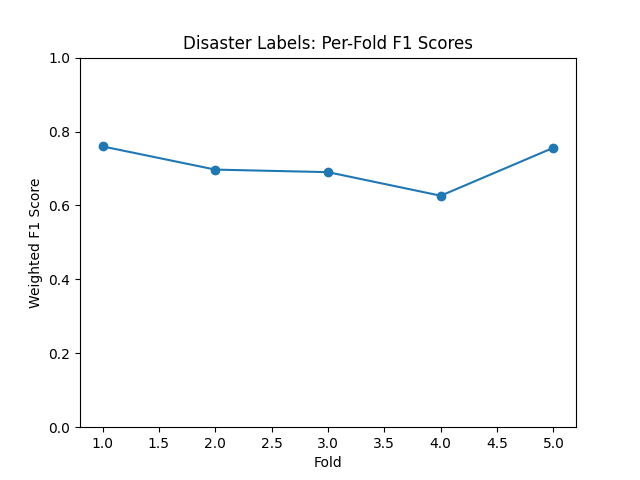
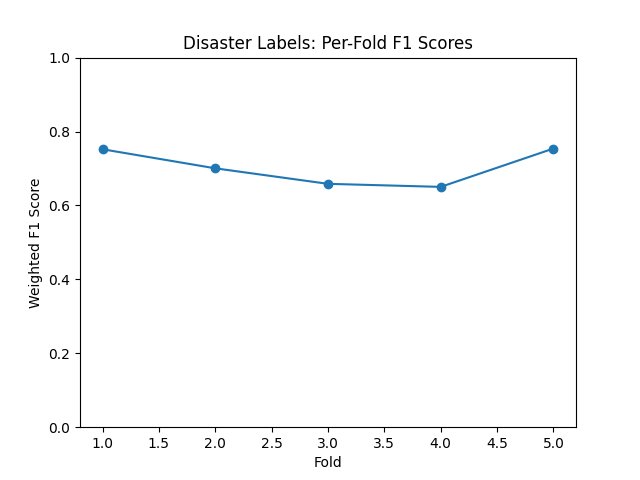
add labels npy and tweak model

Changed region(s): [[0.3125, 0.3125, 0.8438, 0.4375], [0.1562, 0.2812, 0.2812, 0.3438]]

diff --git a/disaster_label_model.py b/disaster_label_model.py
@@ -23,7 +23,7 @@ green = np.load("npy_files/mean_G.npy")
 
 features = ['gabor','sobel_edge','sobel_mean','sobel_var','lbp_mean', 'entropy_mean', 'blue', 'green']
 X = np.concatenate([gabor_mean, sobel_edge, sobel_mean, sobel_var, lbp_mean,  entropy_mean, blue , green], axis=1)
-Y = np.load("../satellite-image-data/all_labels.npy")
+Y = np.load("npy_files/disaster_labels.npy")
 
 
 def stratified_CV(X, Y, model, n_split=5, metric=accuracy_score):
@@ -44,7 +44,7 @@ def stratified_CV(X, Y, model, n_split=5, metric=accuracy_score):
 
 def run_model(X, Y, n):
     
-    model = GradientBoostingClassifier( n_estimators=500, max_depth=4,min_samples_split=5, 
+    model = GradientBoostingClassifier(n_estimators=500, max_depth=3,min_samples_split=5, 
                                        min_samples_leaf=3, subsample=0.8, max_features='sqrt')
     mean_score, values, matrix = stratified_CV(X, Y, model, n_split= n, metric=f1_score)
     print(f"K1 Score = {mean_score}")
